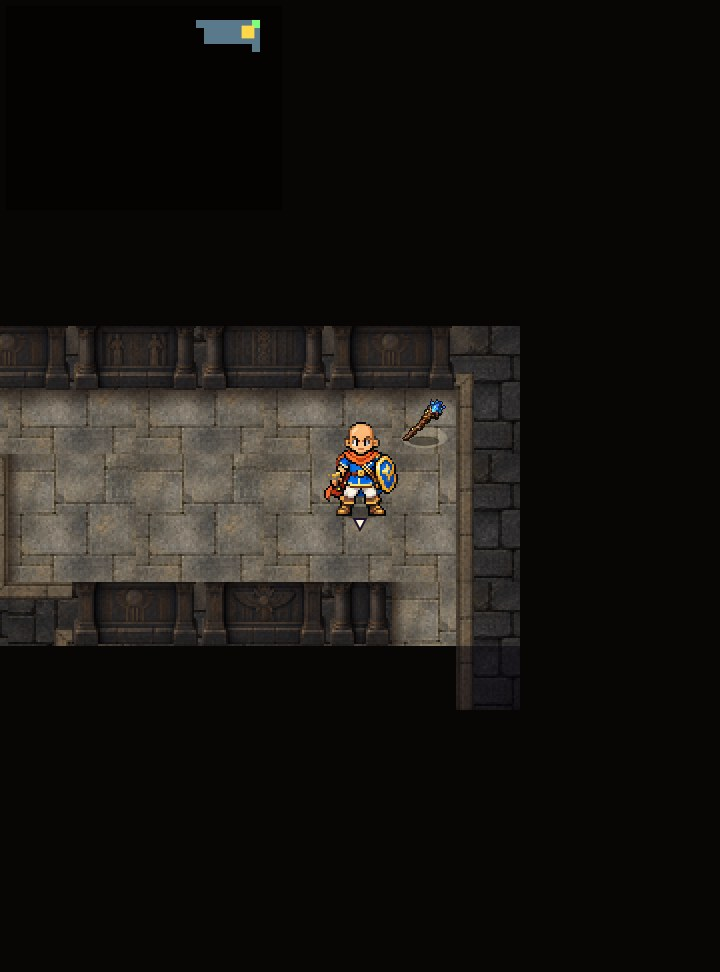
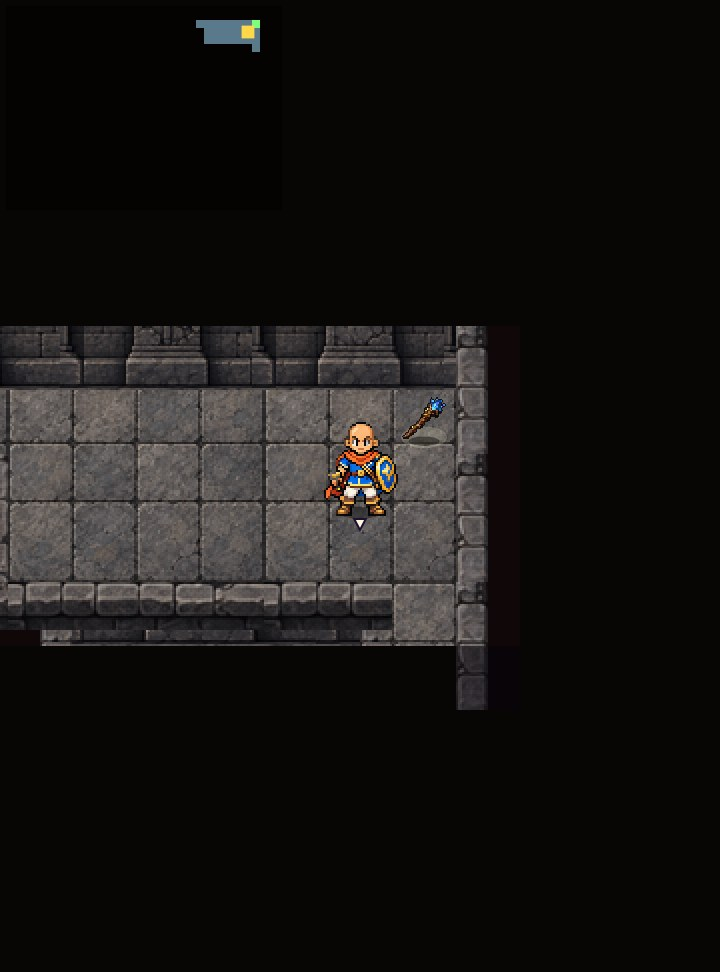
地下の遺跡（7〜14階）v2 を本番に反映
Claude-Session: https://claude.ai/code/session_01HDLigwwegm7F2trSGLBQuS

Changed region(s): [[0.0, 0.3086, 0.7333, 0.7407]]

diff --git a/js/data.js b/js/data.js
@@ -100,7 +100,7 @@
   /* 通常ダンジョンの地域の背景の絵（ZIP dungeon_7themes_art_v1）を使う地域。{ brick: true } のように。
    * 2026年10月21日：レンガの回廊（1〜3階）を本番に反映。10月22日：木の根の遺跡（4〜6階）・地下の遺跡（7〜14階）も反映（1マス幅の正面の壁は仮の絵）。
    * ほかの地域はまだ今までのコードの絵。確認の道具 tools/dungeon-art-preview.js は before/after で切り替えて撮る */
-  D.DUNGEON_ART = { brick: 'v2', roots: 'v2', ruins: true, ruins_deep: true };   // 10月24日：レンガの回廊は v2（承認図の床・3マスの高さの壁）
+  D.DUNGEON_ART = { brick: 'v2', roots: 'v2', ruins: 'v2', ruins_deep: 'v2' };   // 10月24日：レンガの回廊は v2（承認図の床・3マスの高さの壁）
   /* 壁（正面・上面・縁・角・飾り）だけ暗くする割合（床・敵・道具・攻撃の予告はそのまま）。2026年10月22日：地下の遺跡の奥（11〜14階）を深く荘厳に */
   D.DUNGEON_WALL_DARK = { ruins_deep: 0.3 };
   // v2 の部品の組（js/assets.js の dungeon の名前）。書いていない地域は '<地域>_v2'。地下の遺跡の奥（11〜14階）は地下の遺跡と同じ組を使い、壁だけ暗く（上の WALL_DARK）
@@ -110,7 +110,7 @@
   /* レンガの回廊 v2 の補修素材 v3 の角（出っ張った角・壁の上端の角・縁の終わり）。2026年10月24日：線の太さが今の縁と合わず目立ったので使わない（壁の3種だけ差し替え） */
   D.DUNGEON_V2_CORNERS = false;
   /* 縁・角の補修 v4（ZIP edge_fit_v4）を使う地域。2026年10月26日：プレビュー段階（本番は空。確認の道具が切り替える） */
-  D.DUNGEON_EDGE_V4 = { brick: true, roots: true };   // 10月26日：レンガの回廊・木の根の遺跡に反映（角6種類＋帯の終わり v5）
+  D.DUNGEON_EDGE_V4 = { brick: true, roots: true, ruins: true, ruins_deep: true };   // 10月26日：レンガの回廊・木の根の遺跡に反映（角6種類＋帯の終わり v5）
   D.DUNGEON_EDGE_V4_ENDS = false;   // 帯の終わりの部品（end_vertical・end_bottom）は合わなかったので使わない
   D.DUNGEON_ENDS_V5 = true;   // 帯の終わりの補修 v5（ZIP ends_fit_v5）。2026年10月26日：暗い切れ目・色の浮きが消えたので採用（DUNGEON_EDGE_V4 の地域だけに効く）
   /* 壁の外の背景（地図の外・壁の奥・未探索の所）を絵にする地域。2026年10月22日：仮の背景のプレビュー段階（本番は空）。

diff --git a/docs/REGION_V2_SPEC.md b/docs/REGION_V2_SPEC.md
@@ -37,3 +37,4 @@
 - `assets/reference/ruins-match-v1/` → `python3 -I tools/make-region-v2.py ruins assets/reference/ruins-match-v1` → `assets/dungeon/ruins_v2/`。
 - 壁は 浮き彫り4・彫刻3・破損3 のくり返し、残り3は彫刻、2・1は細い壁。edge_fit（角・上端）・ends_fit（帯の終わり）つき。11〜14階は同じ部品で壁・帯・角・終端だけ30%暗く。
 - 本番はまだ（`D.DUNGEON_ART.ruins`・`ruins_deep` は今の絵）。プレビュー：`node tools/dungeon-art-preview.js ruins|ruins_deep docs/ruins-v2/<地域> e5`。代表 `docs/ruins-v2/ruins_7-10_390.jpg`・`ruins_11-14_390.jpg`。
+- 2026年10月26日：本番に反映（`D.DUNGEON_ART.ruins/ruins_deep = 'v2'`、`D.DUNGEON_EDGE_V4.ruins/ruins_deep`）。
